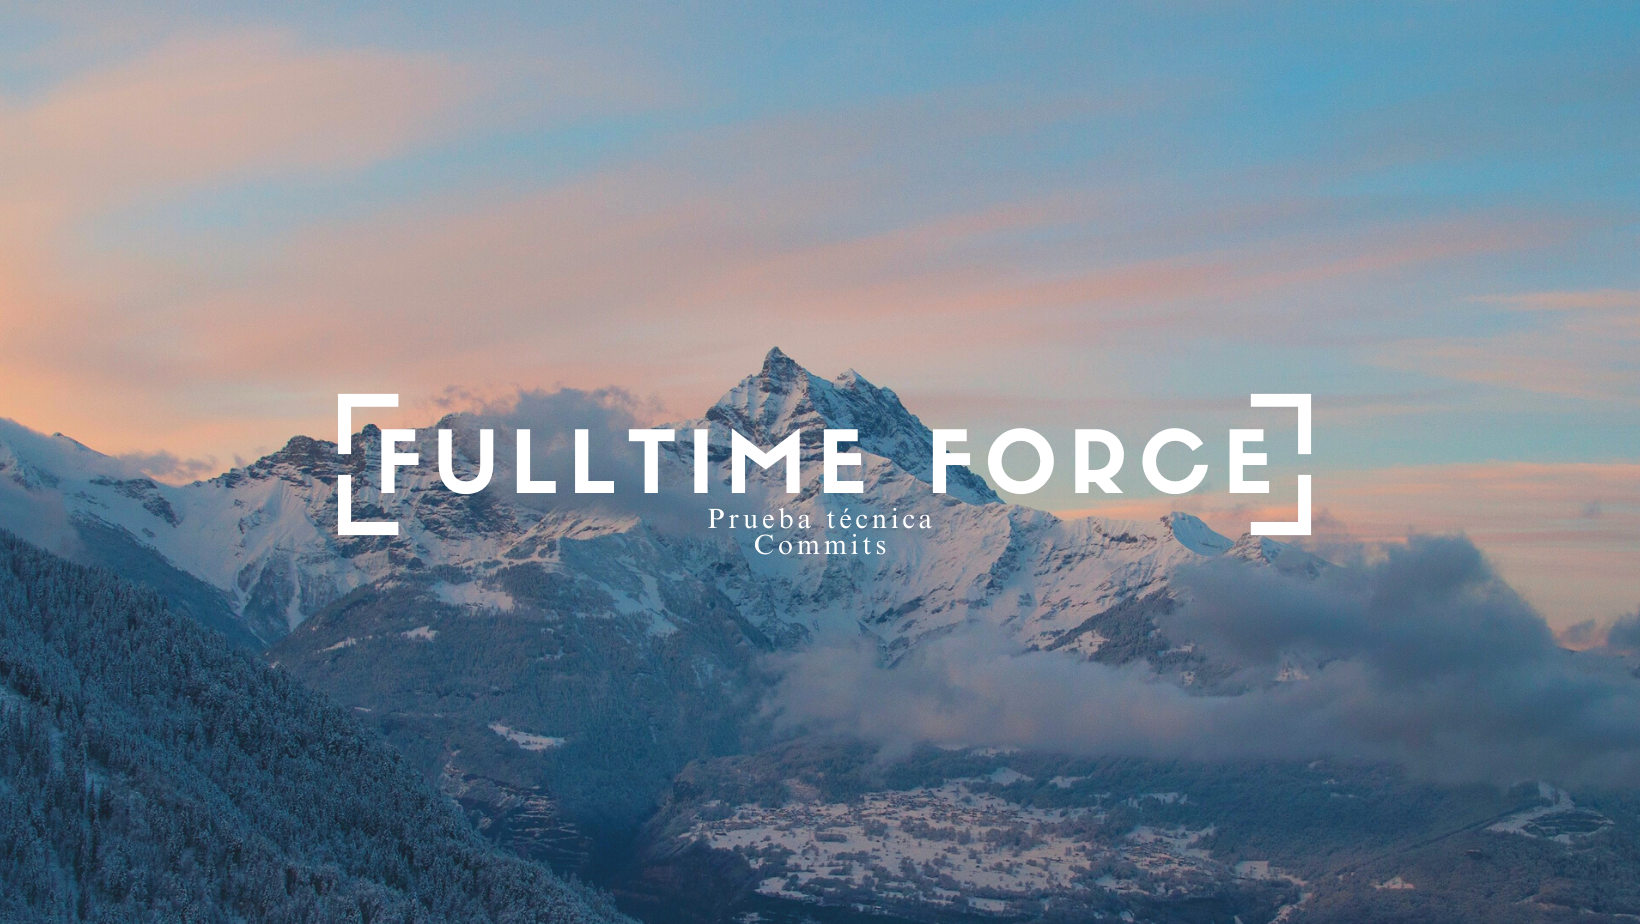
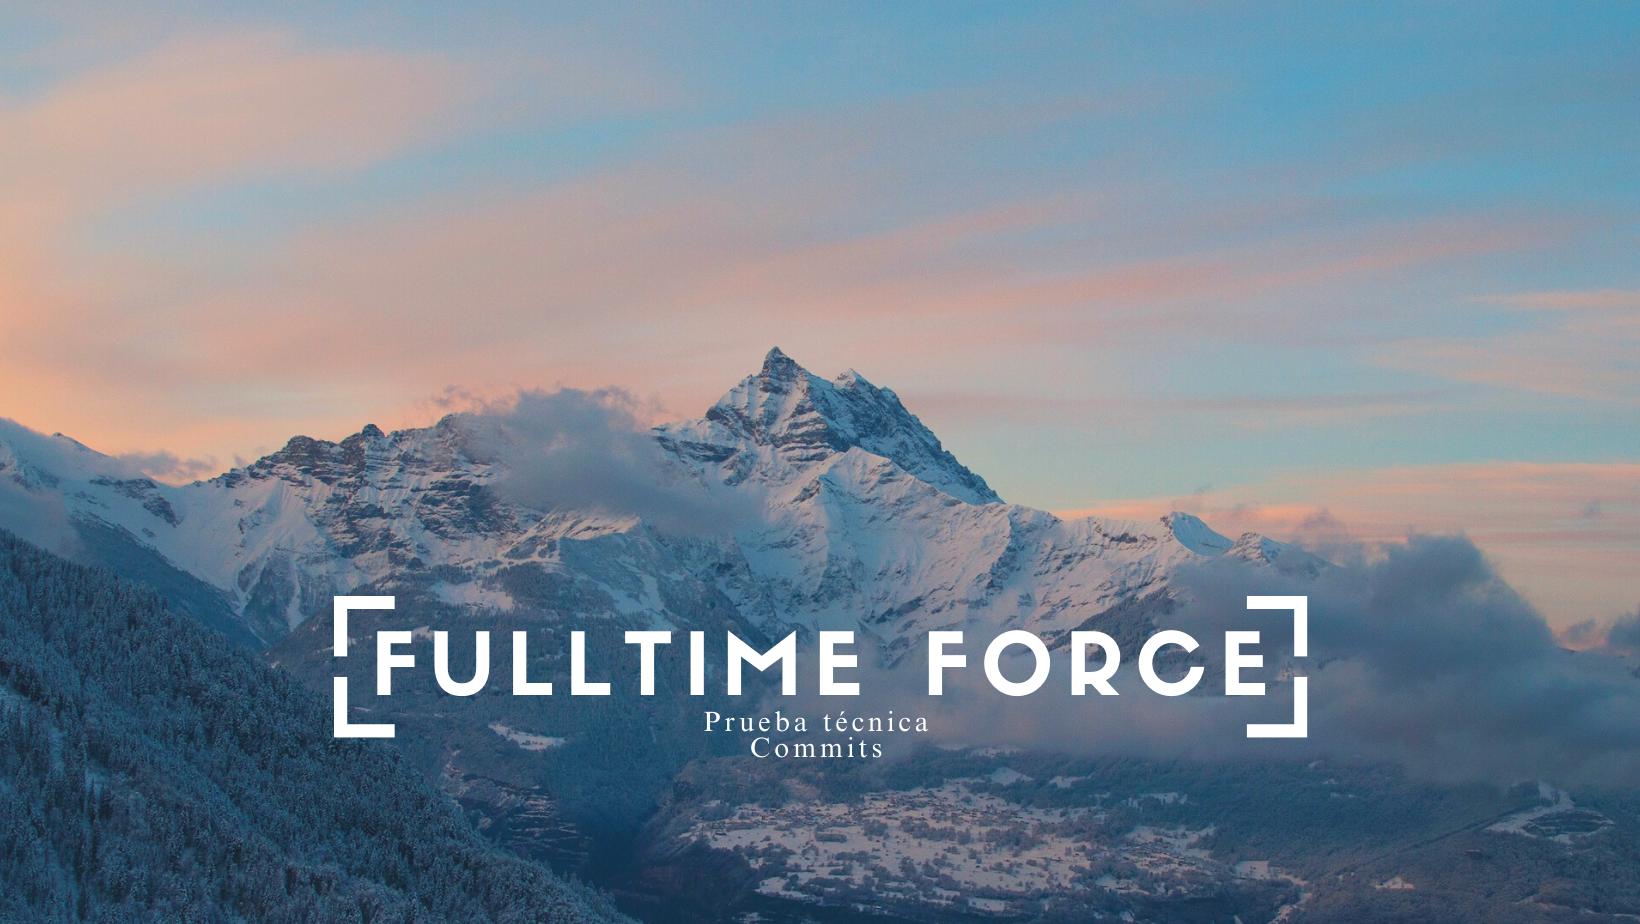
Ojala tenga buena suerte :)

diff --git a/frontend/src/assets/tailwind.css b/frontend/src/assets/tailwind.css
@@ -4,25 +4,25 @@
 
 /* Background */
 .bg-custom-bg {
-    background-color: #f2c84c00; 
-    background-image: url('background.jpeg'); 
-    background-size: cover; 
-    background-repeat: no-repeat; 
-    background-attachment: fixed; 
+    background-color: #f2c84c00;
+    background-image: url('background.jpeg');
+    background-size: cover;
+    background-repeat: no-repeat;
+    background-attachment: fixed;
     font-size: 1.1rem;
+
     /* Regla responsive para pantallas pequeñas */
     @media (max-width: 768px) {
-        background-size: contain; 
-        background-attachment: scroll; 
+        background-size: cover;
     }
 }
 
-
 .text-primary {
-    color: #f9f9f9; 
+    color: #f9f9f9;
+
     /* Regla responsive para pantallas pequeñas */
     @media (max-width: 768px) {
-        font-size: 1.5rem; 
+        font-size: 1.2rem;
     }
 }
 
@@ -32,6 +32,6 @@
 
     /* Regla responsive para pantallas pequeñas */
     @media (max-width: 768px) {
-        font-weight: 600; /* Reduce el peso de la fuente para pantallas pequeñas */
+        font-weight: 600;
     }
 }
